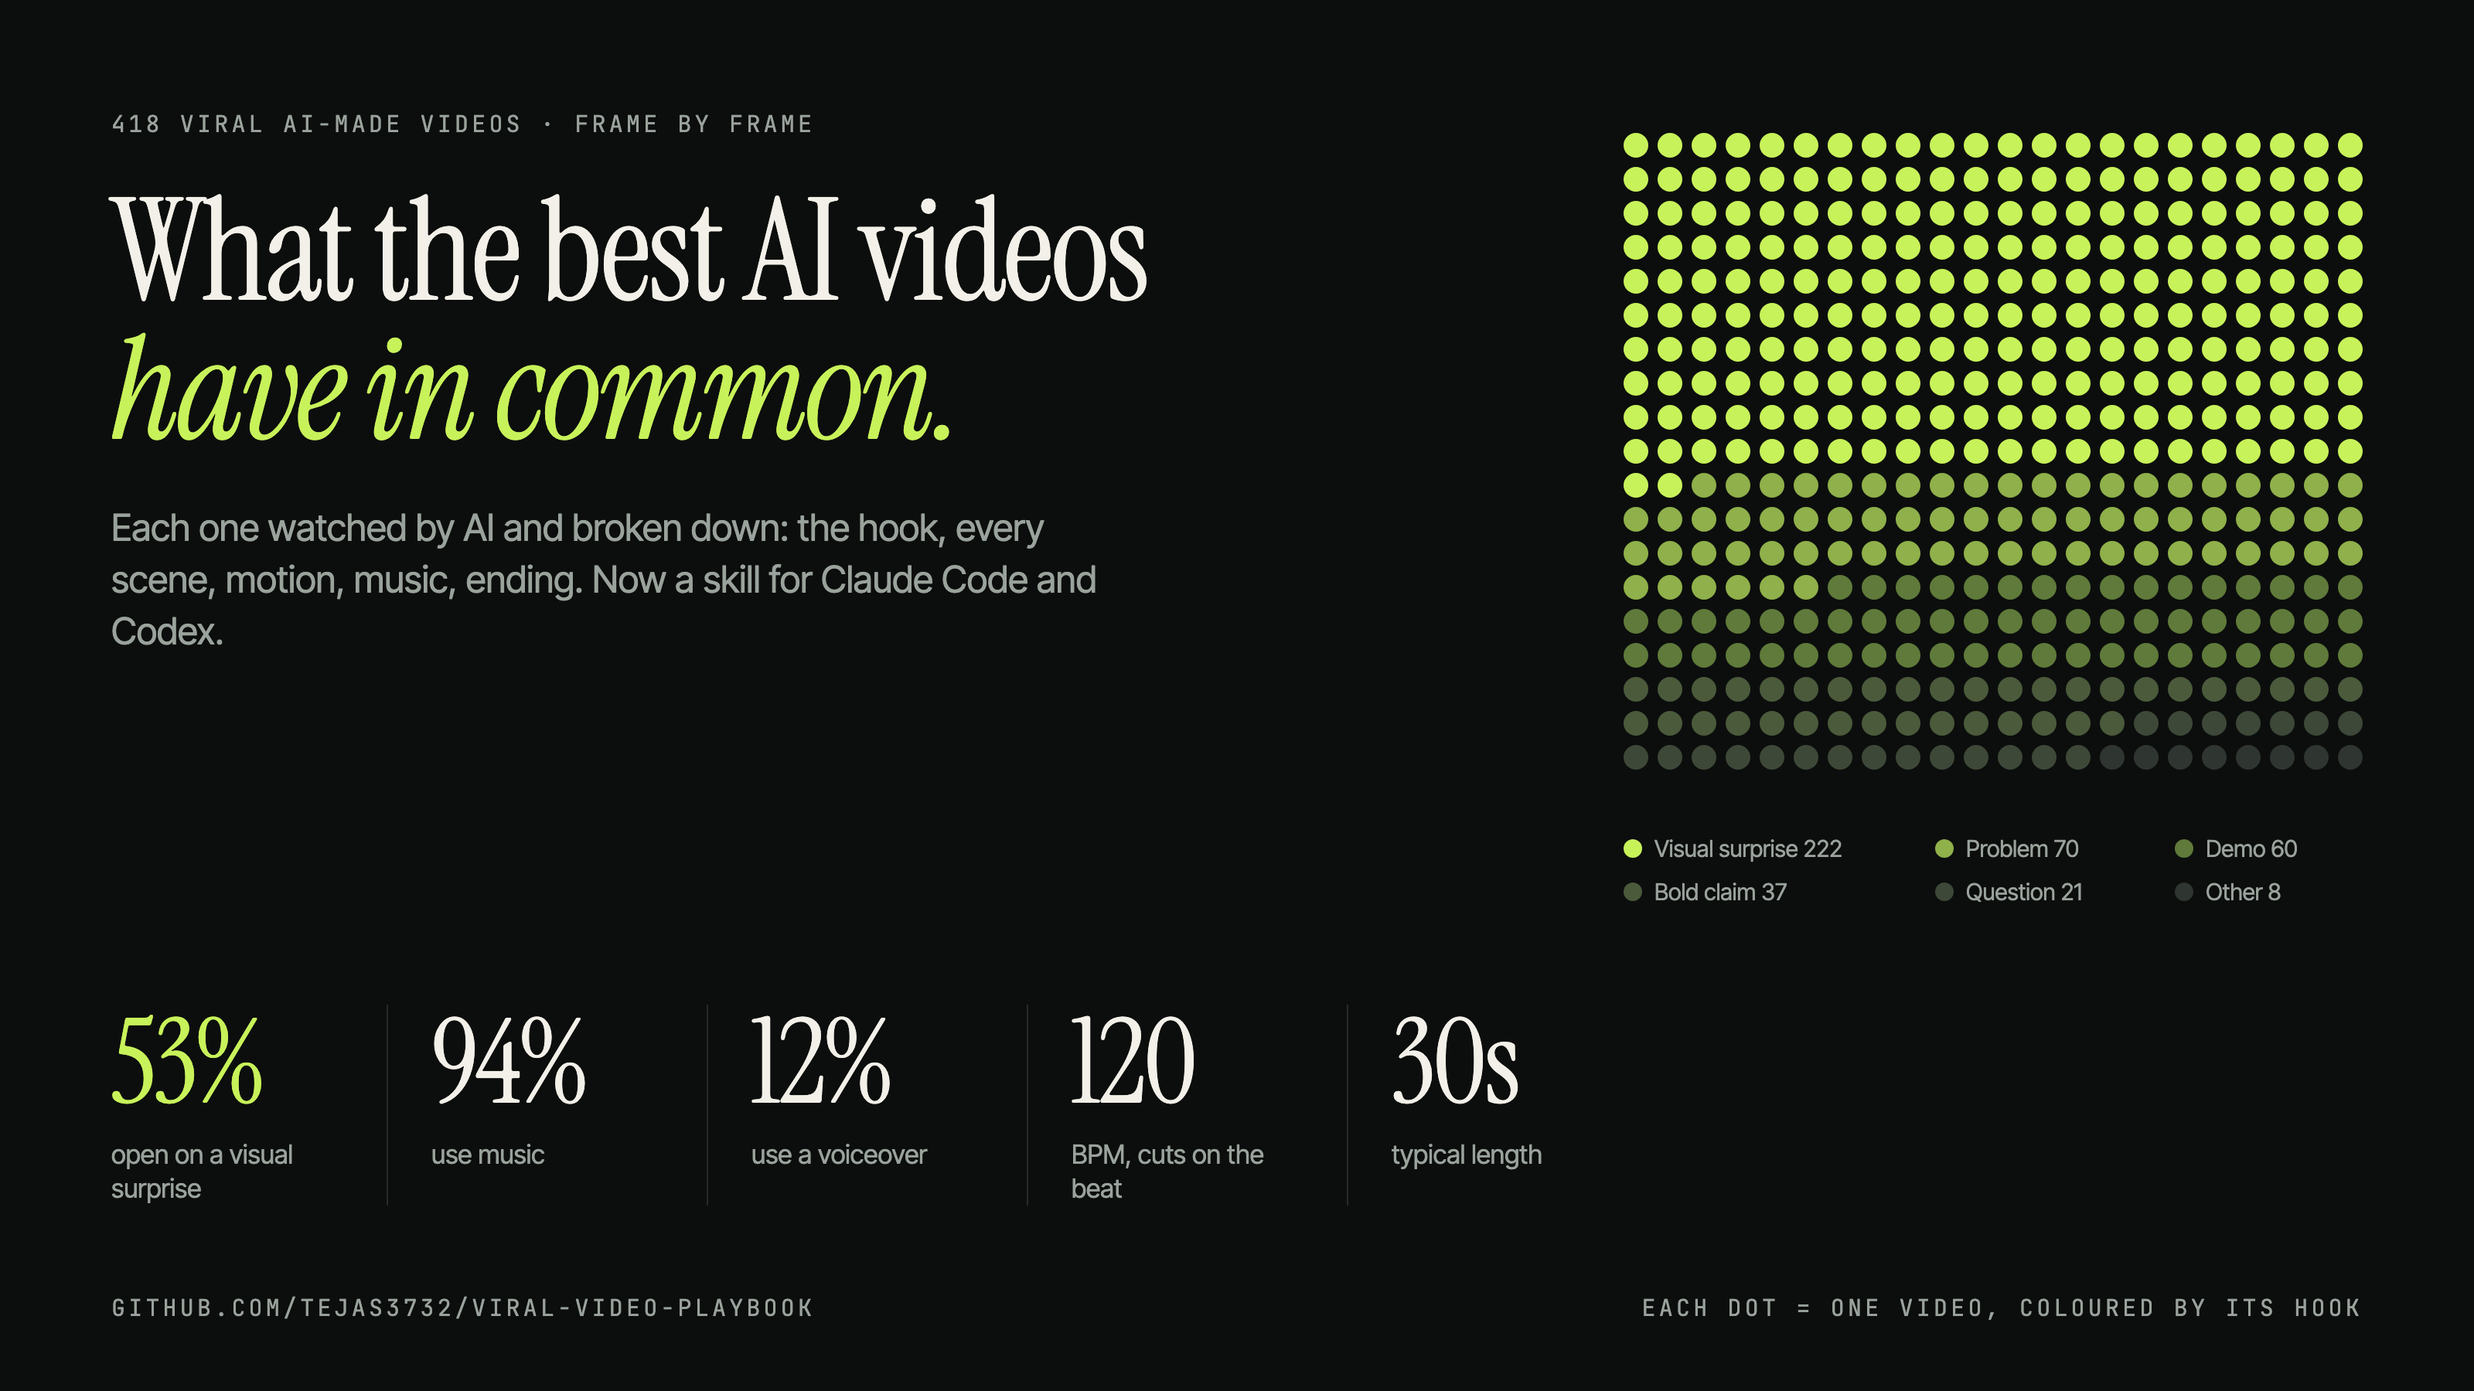
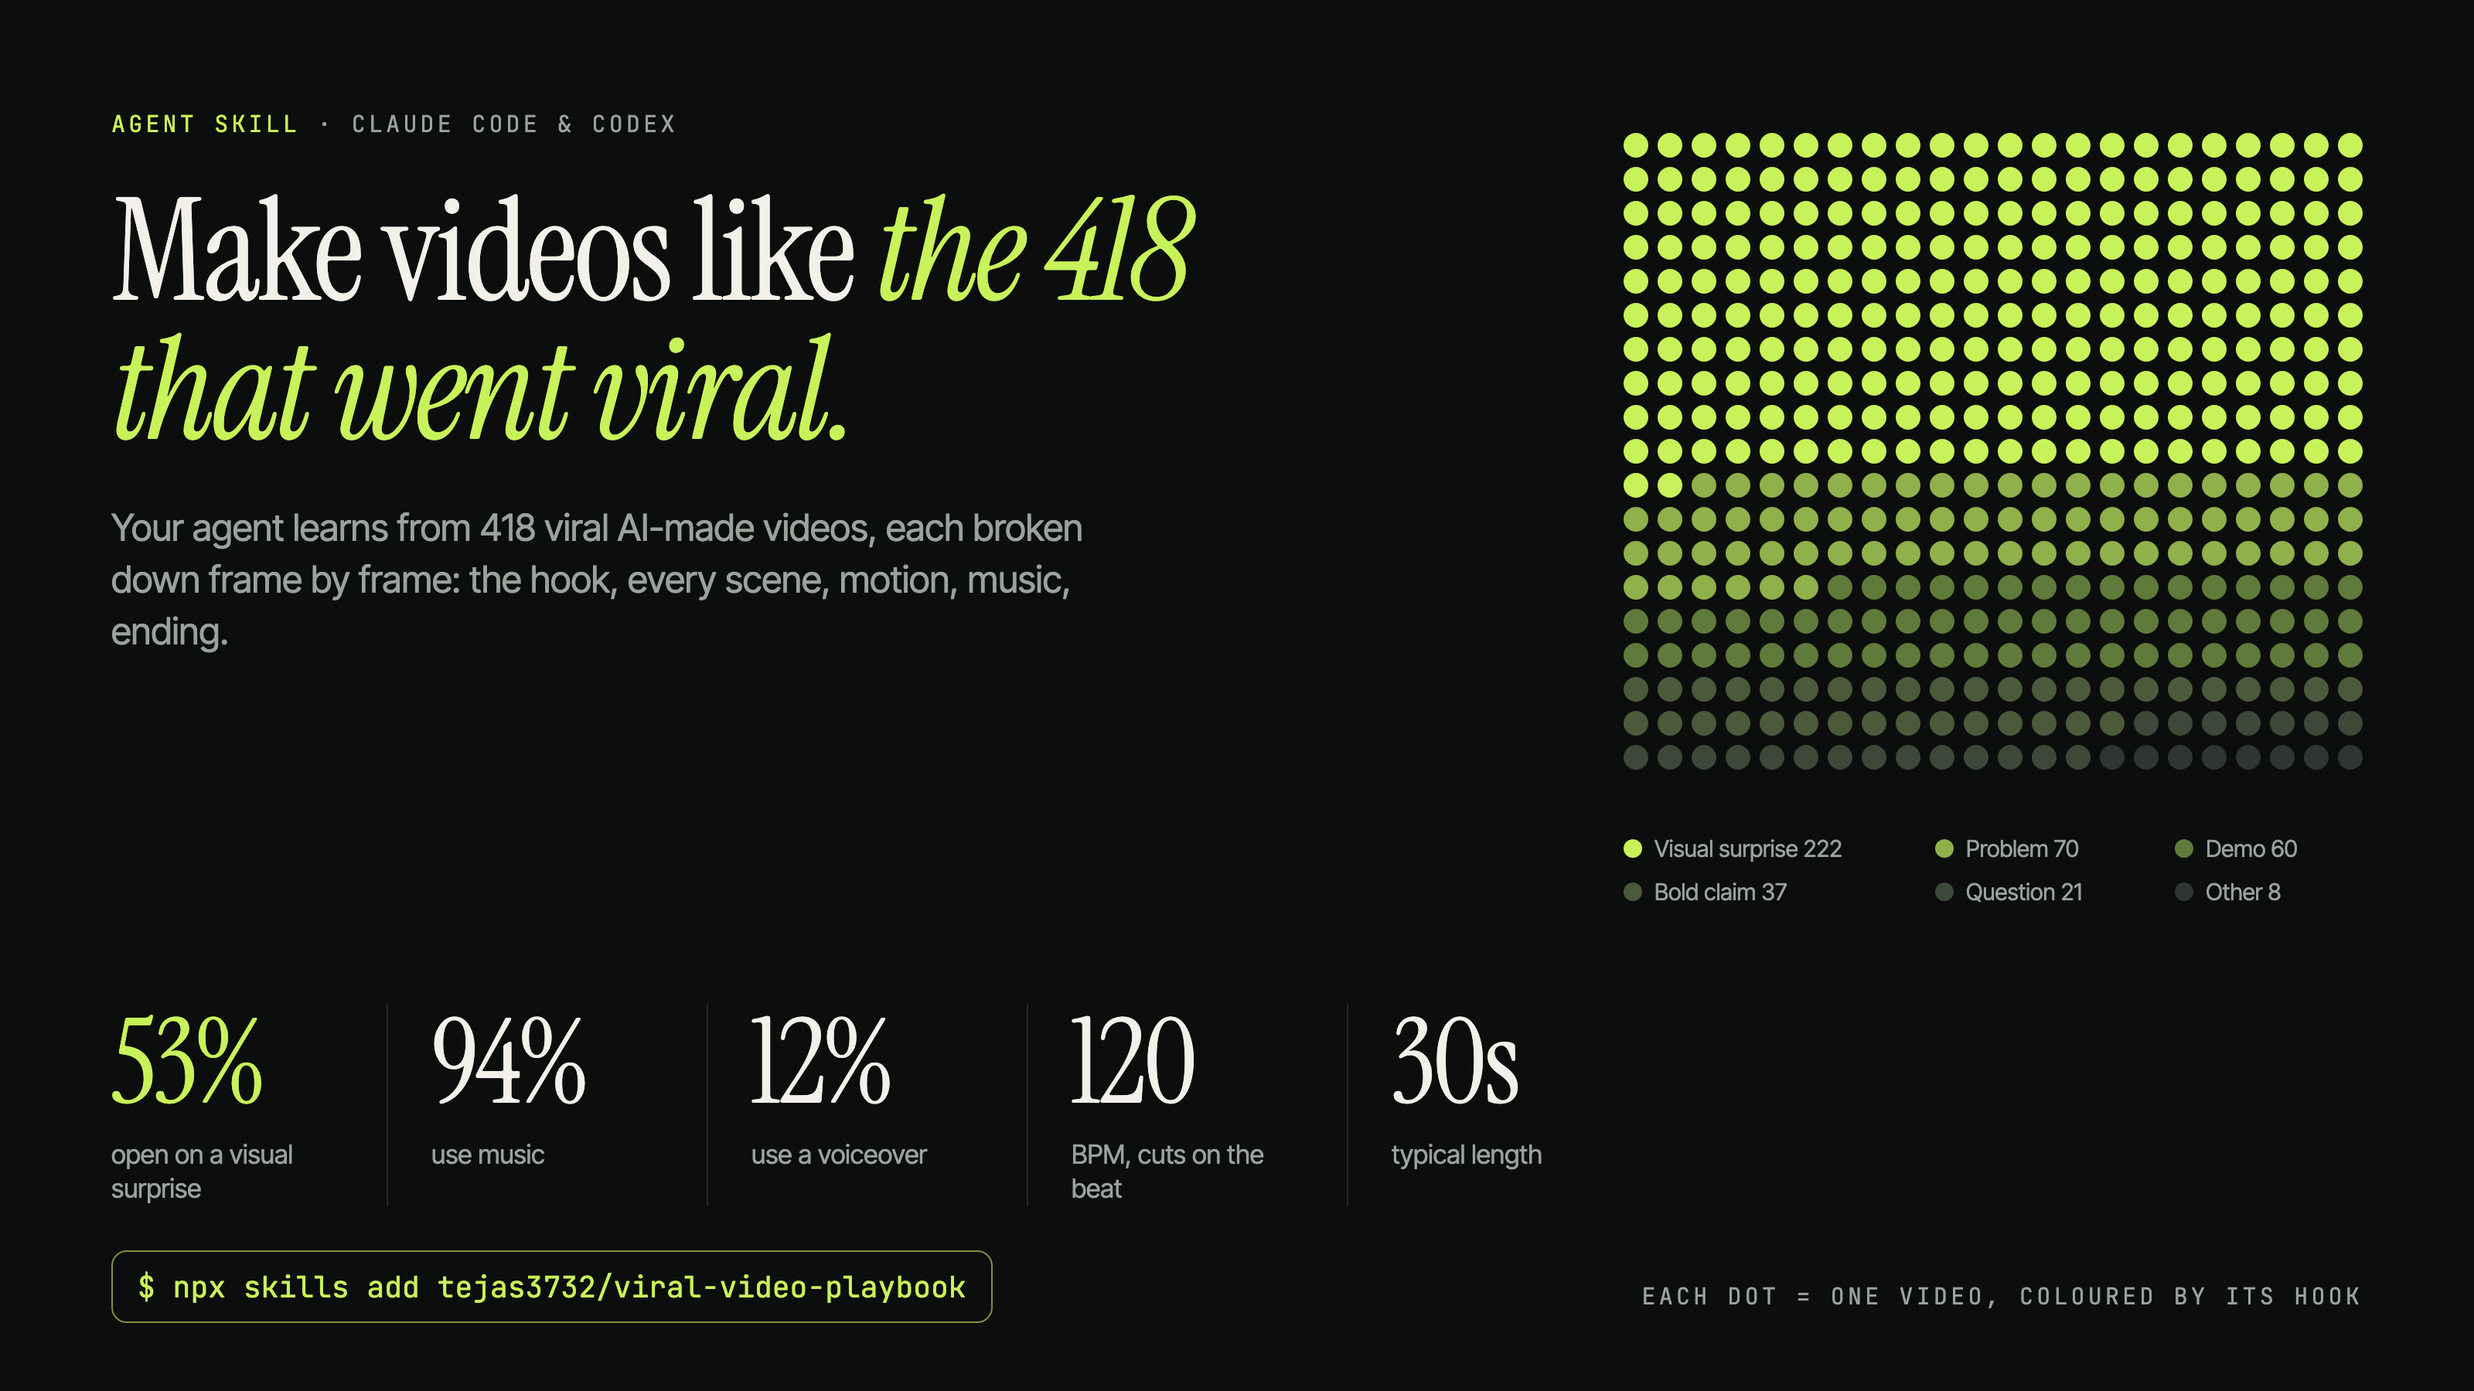
README: lead with the skill (Claude Code + Codex), install first

diff --git a/README.md b/README.md
@@ -1,59 +1,53 @@
 # Viral Video Playbook
 
+### An Agent Skill for **Claude Code** and **Codex** that makes your agent better at making videos.
+
+It learned from **418 viral AI-made videos**, each broken down frame by frame. Install it once, and every time you ask your agent for a launch video, explainer, promo or motion graphic, it plans with what actually worked: the hook, the pacing, the music, the ending, plus real examples with step-by-step recipes.
+
+## Quick start
+
+**1. Install** (one command, needs [Node.js](https://nodejs.org)):
+
+```bash
+npx skills add tejas3732/viral-video-playbook
+```
+
+Pick **Claude Code**, **Codex** (or both, or Cursor and others) when it asks.
+
+**2. Ask your agent for a video, as you normally would:**
+
+> *"Make a 30-second launch video for my app."*
+
+That's it. The skill switches on by itself when the request is about a video. To make sure, add *"use the viral video playbook"*.
+
+<details>
+<summary>Other ways to install</summary>
+
+**Claude Code plugin.** Type these inside Claude Code:
+
+```
+/plugin marketplace add tejas3732/viral-video-playbook
+/plugin install viral-video-playbook@viral-video-playbook
+```
+
+**By hand.** Download this repo and copy the folder `skills/viral-video-playbook` into:
+- Claude Code: `~/.claude/skills/`
+- Codex: `~/.agents/skills/` (or `.agents/skills/` inside one project)
+
+</details>
+
 ![What the best AI videos have in common: 418 viral AI-made videos, each dot coloured by its hook](assets/hero.png)
 
-**I had AI watch 418 viral AI-made videos frame by frame, wrote down what the best ones do, and turned it into a skill your coding agent can use.**
+## What the skill does for your agent
 
-Install it in Claude Code or Codex. Next time you ask your agent for a launch video, an explainer or a motion graphic, it plans with real numbers (hooks, pacing, music, look) and pulls real examples with step-by-step recipes from these 418 videos.
+1. **Plans with real numbers:** a hook in the first 3 seconds, about 30 seconds long, 120 BPM music with cuts on the beat, one clear call to action at the end.
+2. **Finds real references:** searches the 418 breakdowns for videos like yours and borrows 1–2 ideas, crediting the creator.
+3. **Writes a better prompt:** uses the prompt structure that scored highest (music, tempo, fonts, motion style, screen shape spelled out).
+4. **Checks the result:** reviews the finished video against the most common mistakes (text too fast to read, clutter, weak ending, no call to action).
 
-**Contents:** [Where the videos come from](#where-the-videos-come-from) · [How we analysed them](#how-we-analysed-them) · [What we found](#what-we-found) · [3 ways to use it](#3-ways-to-use-it) · [How to use it](#how-to-use-it) · [What's in this repo](#whats-in-this-repo) · [Credits](#credits)
+It's **inspiration, not rules**: your agent borrows an idea or two and keeps your style.
 
----
-
-## Where the videos come from
-
-When Claude Opus 5.5 came out, people on X started posting short videos they had made with it: product promos, explainers, 3D scenes, small games. Many went viral.
-
-**[Skillry](https://skillry.dev/ai-videos/opus-5-5)** collected **418** of them in one gallery, with the prompt each creator used where they shared it. The prompt text is also published as an open dataset at **[yihui-dev/awesome-opus5-5-videos](https://github.com/yihui-dev/awesome-opus5-5-videos)**.
-
-- **387 creators**, every one linked to their original post on X
-- **4 types:** motion graphics (229), explainers (68), interactive pieces and games (65), 3D (56)
-- **211** came with the creator's full prompt; for the other **207** only the post text was available
-
-All credit for the videos goes to their creators, and for collecting them to Skillry and [@yihui-dev](https://github.com/yihui-dev). This repo holds **our notes about the videos only**: no videos, no full prompts. Every note links back to the original post.
-
-## How we analysed them
-
-In plain words: we showed every video to an AI that can watch video, asked it the same detailed questions each time, then counted the answers.
-
-![How it was made: collect 418 videos, Gemini watches each one, asks the same 14 questions, then we count the patterns](assets/how.png)
-
-1. **Watched with Google Gemini.** Each video was uploaded to Gemini (3.5 Flash-Lite for 402 videos, 3.5 Flash for 16), together with the creator's prompt. Gemini looked at 0.5 to 4 frames per second depending on the length (more frames for short videos) and listened to the sound.
-2. **Same questions every time.** Gemini answered in a fixed format: the first 3 seconds (the hook), every scene with timestamps, colours and fonts, transitions and text animation, pacing, music and sound effects, the ending, what works, what doesn't, reusable recipes, how the prompt shaped the result, and scores out of 10.
-3. **Free and fast.** Everything ran on Gemini's free tier, so it cost $0. The main run of 402 videos took about 70 minutes. Requests were spaced out to stay under the free limits, and each upload was deleted once its video was done.
-4. **Checked and counted.** Any answer that came back broken was re-run until all 418 were clean. Then we counted patterns across all of them (how many open with a surprise, typical tempo, length, cuts per 10 seconds, and so on) and wrote up the findings with Claude.
-
-Want to do the same with your own videos? See [Break down your own videos](#4-break-down-your-own-videos).
-
-## What we found
-
-| Finding | Number |
-|---|---|
-| Open with a **visual surprise** in the first 3 seconds (not a logo) | 53% |
-| Have **music** / **sound effects** | 94% / 91% |
-| Have a **voiceover** | only 12% (28% for explainers) |
-| Typical tempo | **120 BPM**, with cuts on the beat |
-| Typical length | **30 seconds** |
-| Typical pace | **3 cuts every 10 seconds** (motion graphics 4, 3D 1) |
-| Look like an **Apple keynote** (clean, minimal) | 53% |
-| Have **no call to action** at the end | 46%, an easy edge |
-| Most common complaint | **text too fast to read** (42%) |
-
-![Anatomy of a 30-second viral AI video: hook, build, drop, show it, end card, with the music energy over time](assets/anatomy.png)
-
-The moments people remember are **morphs**: one shape, card or screen turning into the next without a cut. Prompts that spelled out music, sound effects, screen shape, fonts and motion style scored higher.
-
-The full write-up, with a hook library, motion recipes, sound, colour, endings, mistakes to avoid, a prompt template and the top 20 videos to study, is in **[PLAYBOOK.md](skills/viral-video-playbook/PLAYBOOK.md)**.
+**Contents:** [3 ways to use it](#3-ways-to-use-it) · [How to use it, step by step](#how-to-use-it-step-by-step) · [What it learned from](#what-it-learned-from) · [What's in this repo](#whats-in-this-repo) · [Credits](#credits)
 
 ## 3 ways to use it
 
@@ -78,37 +72,9 @@ Your agent checks it against the most common mistakes: no hook in the first 3 se
 
 Search 418 breakdowns by effect, style or topic and get the creator, the link, the standout moment and a step-by-step recipe. Or point `tools/analyze_video.py` at a competitor's ad and get the same breakdown for it.
 
----
+## How to use it, step by step
 
-## How to use it
-
-### 1. Install it (one command)
-
-You need [Node.js](https://nodejs.org) for this command. Run it in your terminal:
-
-```bash
-npx skills add tejas3732/viral-video-playbook
-```
-
-It asks which agents to add it to (Claude Code, Codex, Cursor and others). Pick yours and you're done.
-
-<details>
-<summary>Other ways to install</summary>
-
-**Claude Code plugin.** Type these inside Claude Code:
-
-```
-/plugin marketplace add tejas3732/viral-video-playbook
-/plugin install viral-video-playbook@viral-video-playbook
-```
-
-**By hand.** Download this repo and copy the folder `skills/viral-video-playbook` into:
-- Claude Code: `~/.claude/skills/`
-- Codex: `~/.agents/skills/` (or `.agents/skills/` inside one project)
-
-</details>
-
-### 2. Just ask your agent
+### 1. Just ask your agent
 
 You don't have to call anything. When you ask for a video, your agent reads the skill on its own. Try:
 
@@ -128,7 +94,7 @@ What your agent then does:
 
 It's meant as **inspiration, not rules**: borrow an idea or two, keep your own style.
 
-### 3. Search the examples yourself
+### 2. Search the examples yourself
 
 No install needed, just Python 3:
 
@@ -155,7 +121,7 @@ Each result shows the creator, a link to the post, the hook, the standout moment
 
 Prefer a spreadsheet? Open [`data/index.csv`](skills/viral-video-playbook/data/index.csv): one row per video with the creator, link, type, length, hook type, score and a one-line summary.
 
-### 4. Break down your own videos
+### 3. Break down your own videos
 
 Get the same frame-by-frame notes for any video: yours, a competitor's ad, a draft you're stuck on.
 
@@ -169,7 +135,52 @@ python3 tools/analyze_video.py my_video.mp4
 
 You get `breakdowns/my_video.json` in about 20–40 seconds for a short video. You can pass many videos at once (`*.mp4`) or add `--prompt-file prompt.txt` if you have the prompt the video was made from. The tool stays inside the free limits on its own: it spaces requests out, stops cleanly at the daily limit (run it again the next day and it carries on), and deletes each upload from Google when it's done. It uses `ffprobe` (part of [ffmpeg](https://ffmpeg.org)) to read video length if you have it.
 
----
+## What it learned from
+
+### Where the videos come from
+
+When Claude Opus 5.5 came out, people on X started posting short videos they had made with it: product promos, explainers, 3D scenes, small games. Many went viral.
+
+**[Skillry](https://skillry.dev/ai-videos/opus-5-5)** collected **418** of them in one gallery, with the prompt each creator used where they shared it. The prompt text is also published as an open dataset at **[yihui-dev/awesome-opus5-5-videos](https://github.com/yihui-dev/awesome-opus5-5-videos)**.
+
+- **387 creators**, every one linked to their original post on X
+- **4 types:** motion graphics (229), explainers (68), interactive pieces and games (65), 3D (56)
+- **211** came with the creator's full prompt; for the other **207** only the post text was available
+
+All credit for the videos goes to their creators, and for collecting them to Skillry and [@yihui-dev](https://github.com/yihui-dev). This repo holds **our notes about the videos only**: no videos, no full prompts. Every note links back to the original post.
+
+### How we analysed them
+
+In plain words: we showed every video to an AI that can watch video, asked it the same detailed questions each time, then counted the answers.
+
+![How it was made: collect 418 videos, Gemini watches each one, asks the same 14 questions, then we count the patterns](assets/how.png)
+
+1. **Watched with Google Gemini.** Each video was uploaded to Gemini (3.5 Flash-Lite for 402 videos, 3.5 Flash for 16), together with the creator's prompt. Gemini looked at 0.5 to 4 frames per second depending on the length (more frames for short videos) and listened to the sound.
+2. **Same questions every time.** Gemini answered in a fixed format: the first 3 seconds (the hook), every scene with timestamps, colours and fonts, transitions and text animation, pacing, music and sound effects, the ending, what works, what doesn't, reusable recipes, how the prompt shaped the result, and scores out of 10.
+3. **Free and fast.** Everything ran on Gemini's free tier, so it cost $0. The main run of 402 videos took about 70 minutes. Requests were spaced out to stay under the free limits, and each upload was deleted once its video was done.
+4. **Checked and counted.** Any answer that came back broken was re-run until all 418 were clean. Then we counted patterns across all of them (how many open with a surprise, typical tempo, length, cuts per 10 seconds, and so on) and wrote up the findings with Claude.
+
+Want to do the same with your own videos? See [Break down your own videos](#3-break-down-your-own-videos).
+
+### What it found
+
+| Finding | Number |
+|---|---|
+| Open with a **visual surprise** in the first 3 seconds (not a logo) | 53% |
+| Have **music** / **sound effects** | 94% / 91% |
+| Have a **voiceover** | only 12% (28% for explainers) |
+| Typical tempo | **120 BPM**, with cuts on the beat |
+| Typical length | **30 seconds** |
+| Typical pace | **3 cuts every 10 seconds** (motion graphics 4, 3D 1) |
+| Look like an **Apple keynote** (clean, minimal) | 53% |
+| Have **no call to action** at the end | 46%, an easy edge |
+| Most common complaint | **text too fast to read** (42%) |
+
+![Anatomy of a 30-second viral AI video: hook, build, drop, show it, end card, with the music energy over time](assets/anatomy.png)
+
+The moments people remember are **morphs**: one shape, card or screen turning into the next without a cut. Prompts that spelled out music, sound effects, screen shape, fonts and motion style scored higher.
+
+The full write-up, with a hook library, motion recipes, sound, colour, endings, mistakes to avoid, a prompt template and the top 20 videos to study, is in **[PLAYBOOK.md](skills/viral-video-playbook/PLAYBOOK.md)**.
 
 ## What's in this repo
 
@@ -194,3 +205,4 @@ You get `breakdowns/my_video.json` in about 20–40 seconds for a short video. Y
 - **Collection:** [Skillry](https://skillry.dev/ai-videos/opus-5-5) and [@yihui-dev/awesome-opus5-5-videos](https://github.com/yihui-dev/awesome-opus5-5-videos).
 - **Video analysis:** Google Gemini. **Write-up:** made with Claude.
 - **Made by** [Tejas Rane](https://x.com/tejas3732). Code under the [MIT licence](LICENSE).
+
